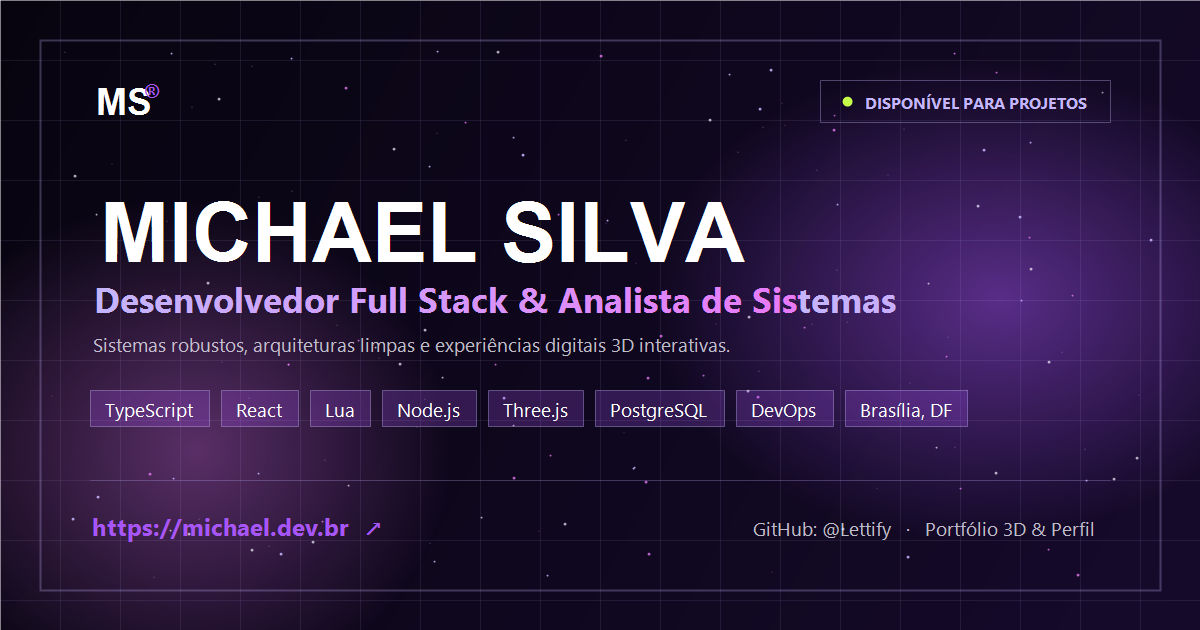
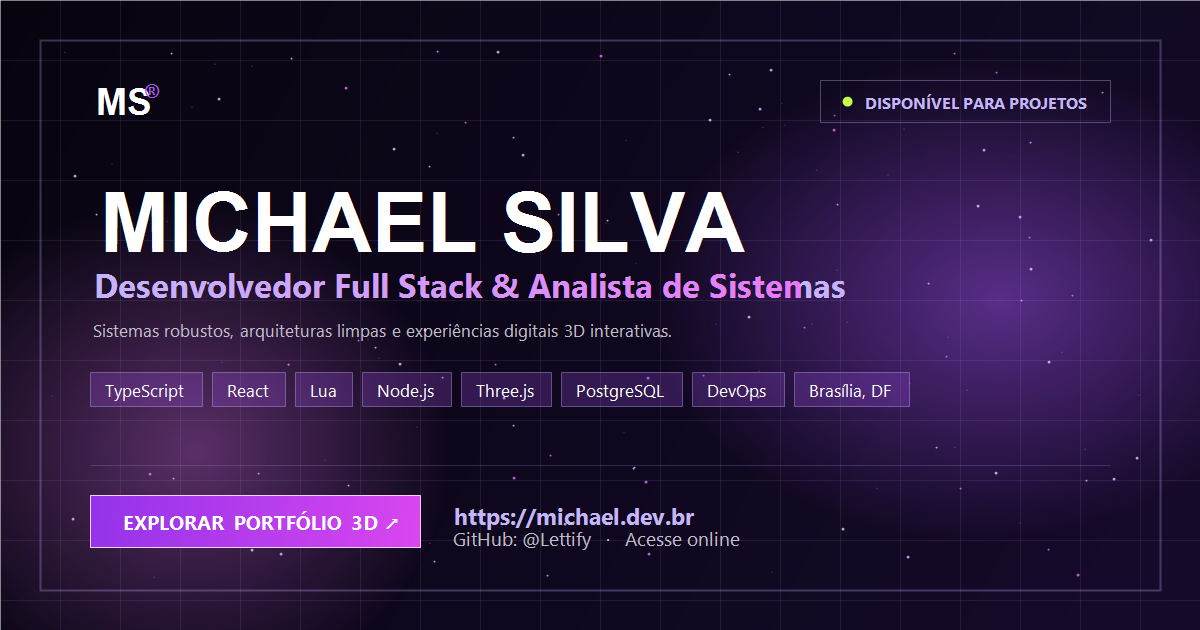
fix(seo): add cta to og-image and optimize title and meta description lengths

diff --git a/index.html b/index.html
@@ -6,7 +6,7 @@
     <title>Michael Silva — Desenvolvedor Full Stack</title>
     <meta
       name="description"
-      content="Michael Silva — Desenvolvedor Full Stack e Analista de Sistemas em Brasília, DF. Sistemas robustos, arquiteturas limpas, automações inteligentes e experiências web."
+      content="Michael Silva — Desenvolvedor Full Stack em Brasília. Sistemas robustos, arquiteturas limpas, automações inteligentes e experiências 3D interativas."
     />
     <meta name="theme-color" content="#07040f" />
     <meta name="author" content="Michael Silva" />
@@ -14,10 +14,10 @@
 
     <!-- Open Graph / Facebook / WhatsApp / LinkedIn -->
     <meta property="og:site_name" content="Michael Silva" />
-    <meta property="og:title" content="Michael Silva — Desenvolvedor Full Stack & Analista de Sistemas" />
+    <meta property="og:title" content="Michael Silva — Desenvolvedor Full Stack" />
     <meta
       property="og:description"
-      content="Portfólio interativo 3D com Three.js, shaders procedurais, arquiteturas limpas e sistemas robustos. Baseado em Brasília, DF."
+      content="Sistemas robustos, arquiteturas limpas e experiências 3D interativas. Desenvolvedor Full Stack & Analista de Sistemas em Brasília."
     />
     <meta property="og:url" content="https://michael.dev.br" />
     <meta property="og:type" content="website" />
@@ -27,17 +27,17 @@
     <meta property="og:image:type" content="image/png" />
     <meta property="og:image:width" content="1200" />
     <meta property="og:image:height" content="630" />
-    <meta property="og:image:alt" content="Michael Silva — Desenvolvedor Full Stack" />
+    <meta property="og:image:alt" content="Michael Silva — Desenvolvedor Full Stack — Explorar Portfólio 3D" />
 
     <!-- Twitter / X -->
     <meta name="twitter:card" content="summary_large_image" />
-    <meta name="twitter:title" content="Michael Silva — Desenvolvedor Full Stack & Analista de Sistemas" />
+    <meta name="twitter:title" content="Michael Silva — Desenvolvedor Full Stack" />
     <meta
       name="twitter:description"
-      content="Portfólio interativo 3D com Three.js, shaders procedurais, arquiteturas limpas e sistemas robustos. Baseado em Brasília, DF."
+      content="Sistemas robustos, arquiteturas limpas e experiências 3D interativas. Desenvolvedor Full Stack & Analista de Sistemas em Brasília."
     />
     <meta name="twitter:image" content="https://michael.dev.br/og-image.png" />
-    <meta name="twitter:image:alt" content="Michael Silva — Desenvolvedor Full Stack" />
+    <meta name="twitter:image:alt" content="Michael Silva — Desenvolvedor Full Stack — Explorar Portfólio 3D" />
 
     <!-- Schema.org JSON-LD para Google Search -->
     <script type="application/ld+json">
